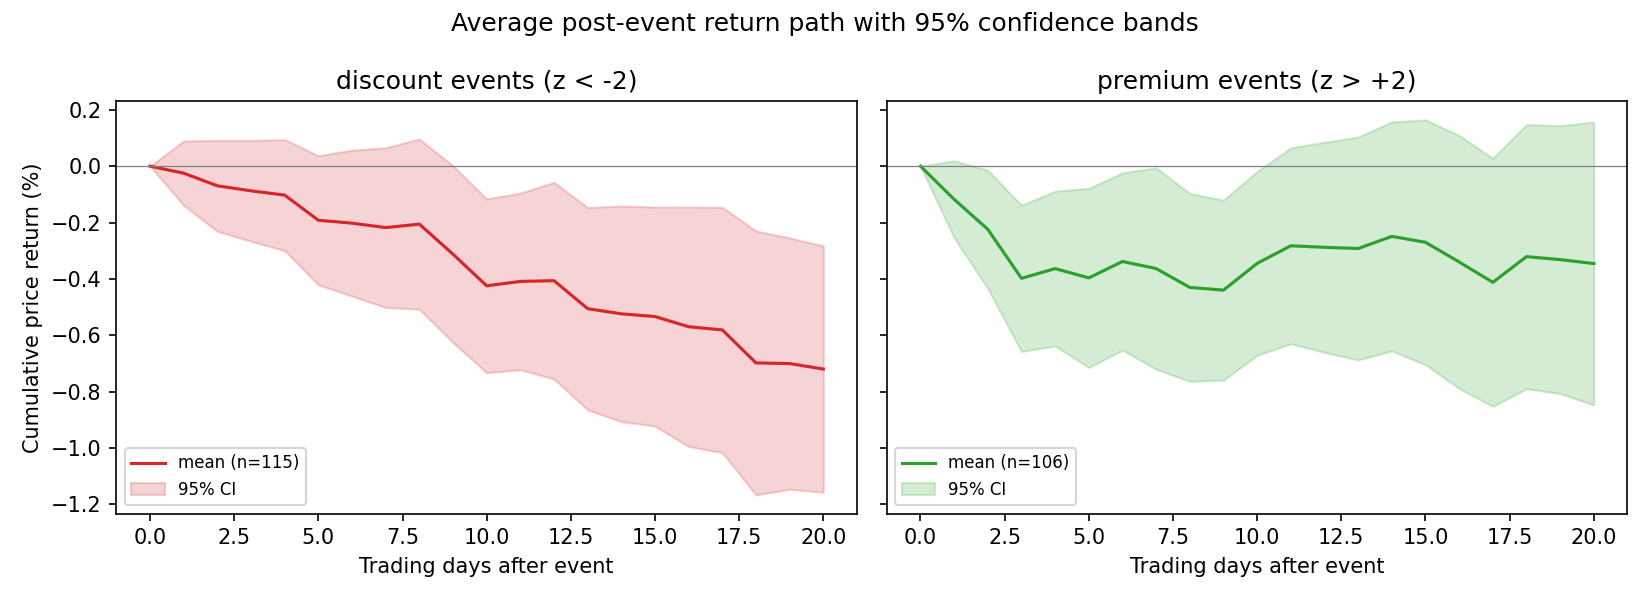
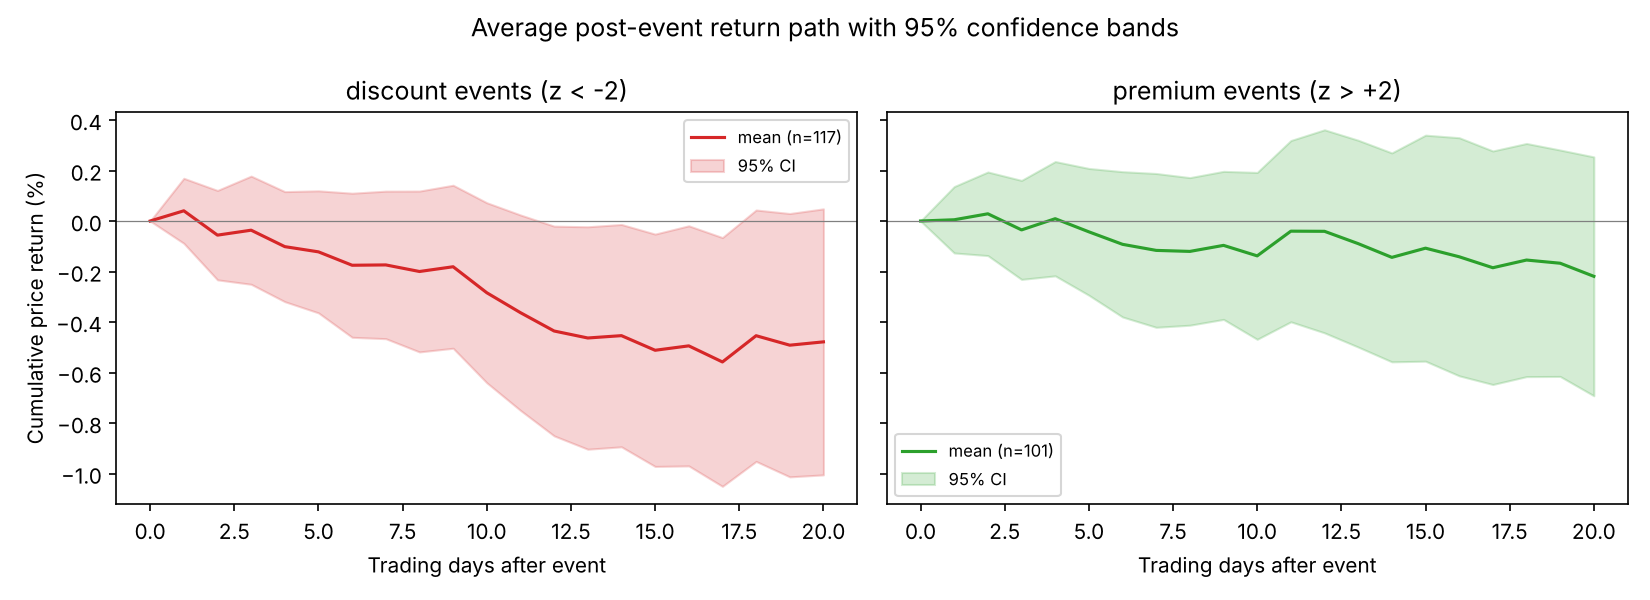
docs: fill Key findings from a costed run and flag the simulated NAV
Replaces the placeholder with the backtest and event study from a run
on 2026-11-11 (yfinance prices, simulated NAV, 5 bps costs, adjusted
closes). The section states that with a simulated NAV the signal is
noise by construction, which the results match: four of five ETFs lose
money and discount events are not followed by gains. Charts in
outputs/ regenerated. Also removes em dashes and quotation marks.

Source: LEARNINGS.md B3 (report negative results), D2.

Claude-Session: https://claude.ai/code/session_013eQQvXsKQ5ZxUZGJ1ycCVm

diff --git a/README.md b/README.md
@@ -19,7 +19,7 @@ discount-reversion strategy with a Streamlit monitoring dashboard.
 > When a fixed income ETF's premium/discount to NAV exceeds two standard
 > deviations of its recent (63-day) history, the dislocation reflects
 > temporary liquidity pressure rather than a change in fundamental value, and
-> therefore mean-reverts over the following 1–20 trading days — faster and
+> therefore mean-reverts over the following 1–20 trading days, faster and
 > more profitably after deep **discounts** and during **high-VIX** regimes.
 
 ## Folder structure
@@ -72,7 +72,28 @@ jupyter notebook notebooks/research.ipynb
 
 ## Key findings
 
-*(Placeholder — regenerate after running the pipeline on live data.)*
+From a run on 2026-11-11 of the pipeline in Setup, steps 3 to 4, on yfinance prices from 2021-11-11 to 2026-11-10. **NAV is simulated** (see Corrections and caveats), so these numbers test the pipeline, not a market inefficiency. With a simulated NAV the premium/discount carries no information about future prices by construction, and the results should look like noise minus costs, which they do.
+
+**Backtest** (long only on discounts below -2 sigma, exit at 0, two-day execution lag, 5 bps one-way cost on turnover, returns on dividend-adjusted closes). Source: `data/processed/backtest_summary.csv`.
+
+| ETF | Strategy ann. return | Sharpe | Max drawdown | Trades | Cost drag per year | Buy and hold ann. return | Buy and hold Sharpe |
+|-----|------|------|------|------|------|------|------|
+| HYG | 0.7% | 0.24 | -5.3% | 20 | 0.6% | 3.3% | 0.47 |
+| LQD | -2.4% | -0.67 | -13.9% | 16 | 0.5% | -1.0% | -0.07 |
+| JNK | -0.3% | -0.09 | -6.5% | 14 | 0.4% | 3.1% | 0.45 |
+| TLT | -3.8% | -0.52 | -19.4% | 16 | 0.5% | -8.2% | -0.47 |
+| AGG | -1.0% | -0.43 | -8.0% | 13 | 0.3% | -0.3% | -0.01 |
+
+Four of five ETFs lose money. The strategy return beats buy and hold only for TLT, where buy and hold lost 8.2% a year. Drawdowns are smaller for every ETF because the strategy is in cash most of the time. Trade counts of 13 to 20 over five years are too few to separate skill from chance in any case.
+
+**Event study** (118 discount and 101 premium crossings of +/-2 sigma). Mean forward return after the event (dividend-adjusted), percent. Source: `data/processed/reversion_summary.csv`.
+
+| Event | 1 day | 5 days | 10 days | 20 days |
+|-------|-------|--------|---------|---------|
+| discount | 0.03% | -0.12% | -0.28% | -0.48% |
+| premium | 0.01% | -0.04% | -0.14% | -0.22% |
+
+There is no reversion pattern: discount events are not followed by gains. Charts below are from the same run.
 
 - Spread history with stress episodes:
 
@@ -90,6 +111,8 @@ jupyter notebook notebooks/research.ipynb
 
   ![Backtest](outputs/backtest_cumulative.png)
 
+To test the actual hypothesis, drop real issuer NAV files into `data/raw/<TICKER>_nav_external.csv` (iShares and SPDR publish daily NAV history as free downloads) and rerun.
+
 ## Data sources
 
 | Dataset | Source | Notes |
@@ -104,12 +127,14 @@ reproducible simulations so the full pipeline still runs end to end.
 
 ## License
 
-MIT — see [LICENSE](LICENSE).
+MIT, see [LICENSE](LICENSE).
 
 ## Corrections and caveats
 
-- **Backtest timing.** Despite the documented "next-day close" execution, positions were shifted by one day, so a signal formed from day-t price and NAV earned the day-t+1 return (a fill at the very close that produced the signal). Execution is now lagged by two days (`EXEC_LAG`); pass `exec_lag=1` to reproduce the old convention.
+- **Backtest timing.** Despite the documented next-day close execution, positions were shifted by one day, so a signal formed from day-t price and NAV earned the day-t+1 return (a fill at the very close that produced the signal). Execution is now lagged by two days (`EXEC_LAG`); pass `exec_lag=1` to reproduce the old convention.
 - **Position sizing look-ahead.** Inverse-volatility weights were rescaled by the full-sample mean of inverse volatility; they now use the expanding mean.
 - **The NAV series is simulated** unless you supply `data/raw/<TICKER>_nav_external.csv`. With simulated NAV the premium/discount is noise independent of subsequent price moves, so the backtest and event study demonstrate the pipeline, not a tradable edge. Add real issuer NAV data before drawing any conclusion from `backtest_summary.csv` or `event_study.csv`; regenerate them after the timing fix.
 - Event-study confidence bands treat events as independent although 20-day windows overlap, so they are too narrow.
+- **Transaction costs.** The backtest was frictionless. It now charges 5 bps one way on every unit of turnover, including the daily inverse-volatility resizing.
+- **Total returns.** P&L, buy and hold and event paths used unadjusted closes, leaving out bond ETF distributions. They now use dividend-adjusted closes; the premium/discount stays on the unadjusted close to match NAV.
 - `pytest` and CI added.
